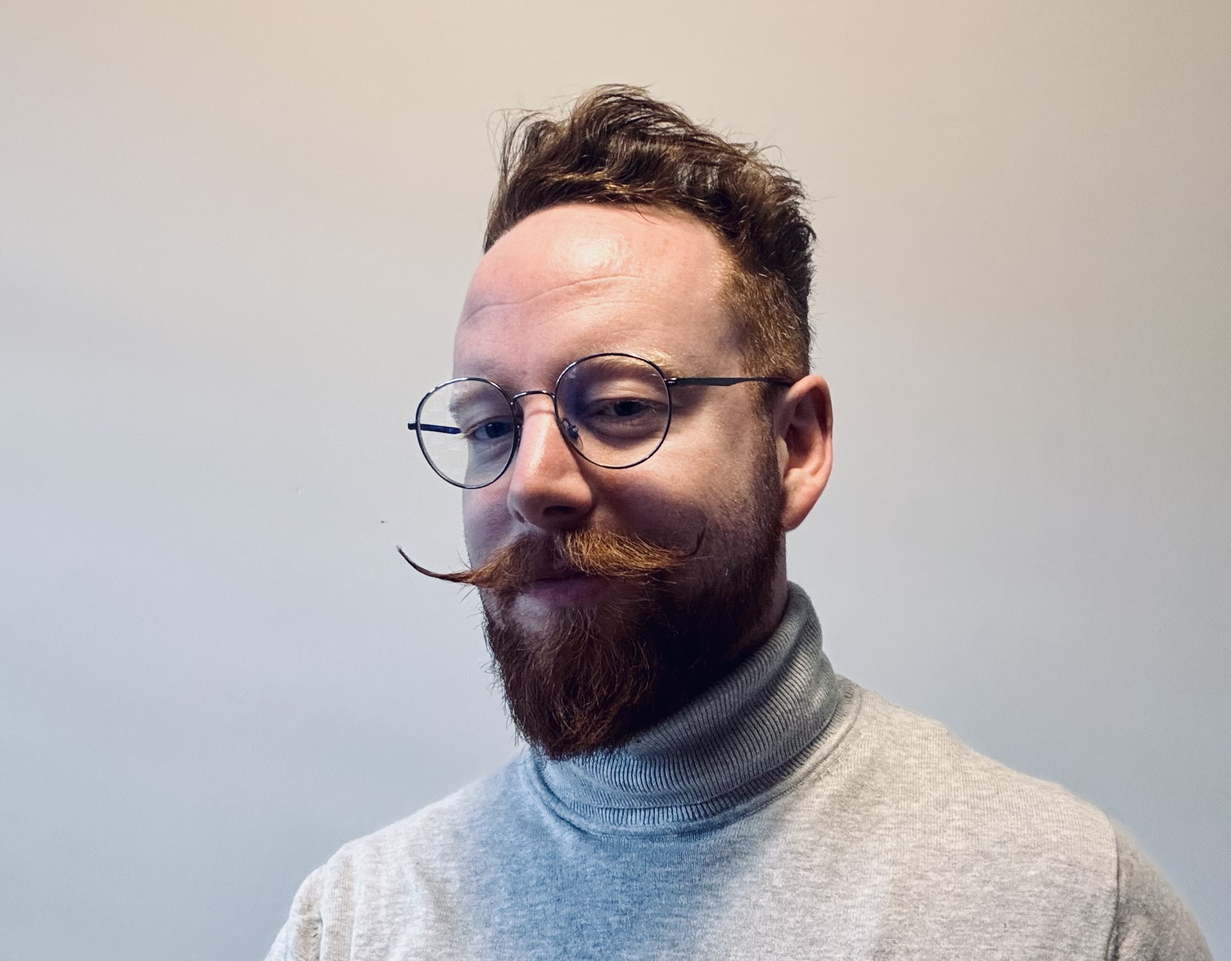
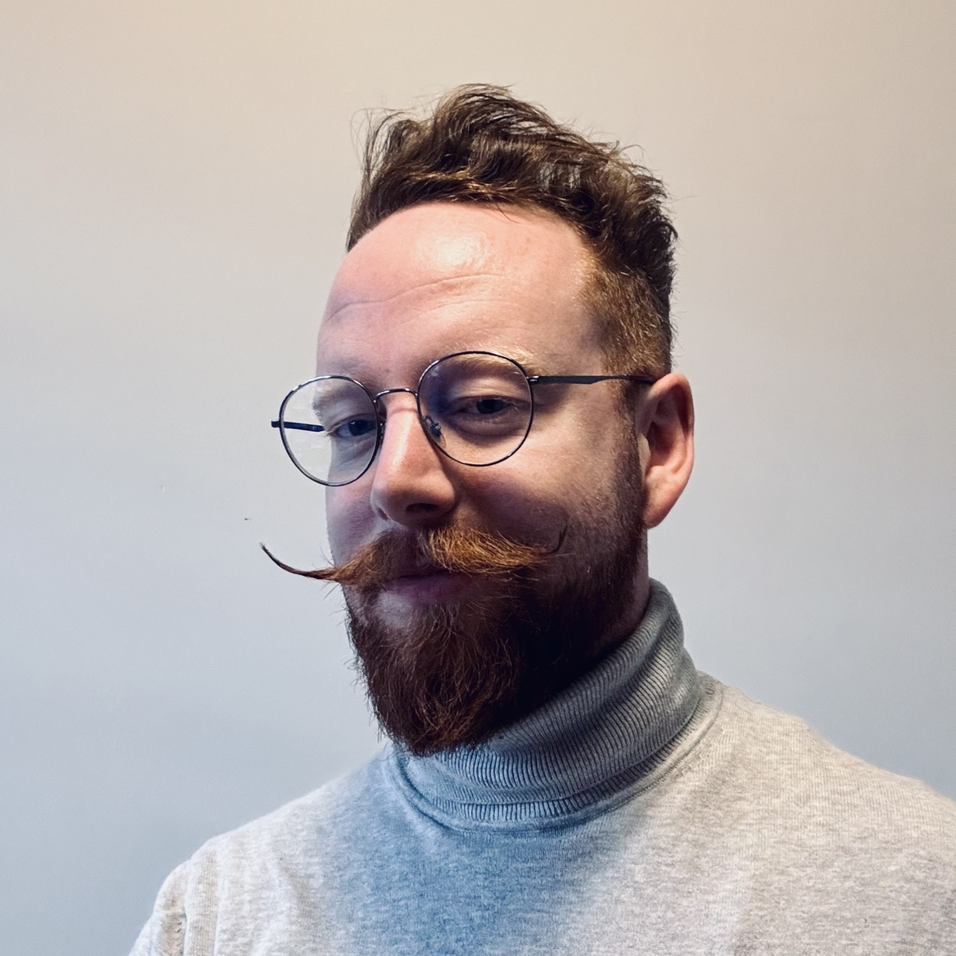
feat(seo): improve portrait thumbnail eligibility

Changed region(s): [[0.124, 0.093, 1.0, 1.0]]

diff --git a/src/utils/structured-data.ts b/src/utils/structured-data.ts
@@ -8,7 +8,7 @@ export type PageStructuredData =
   | { type: "BlogPosting"; entry: CollectionEntry<"blog"> }
   | { type: "WebPage"; organization?: { name: string; url: string } };
 
-export function createStructuredData(site: URL, url: URL, name: string, description: string, data: PageStructuredData) {
+export function createStructuredData(site: URL, url: URL, name: string, description: string, data: PageStructuredData, portraitUrl: URL) {
   const person = { "@id": new URL("#person", site).href };
   const website = { "@id": new URL("#website", site).href };
   const page = { "@id": `${url.href}#webpage` };
@@ -22,6 +22,7 @@ export function createStructuredData(site: URL, url: URL, name: string, descript
         ...person,
         "@type": "Person",
         name: SITE_NAME,
+        image: portraitUrl.href,
         url: site.href,
         jobTitle: SITE_TITLE,
         mainEntityOfPage: { "@id": new URL("#webpage", site).href },
@@ -44,7 +45,7 @@ export function createStructuredData(site: URL, url: URL, name: string, descript
         inLanguage: "en",
         isPartOf: website,
         about: person,
-        ...(data.type === "ProfilePage" && { mainEntity: person }),
+        ...(data.type === "ProfilePage" && { mainEntity: person, primaryImageOfPage: portraitUrl.href }),
         ...(data.type === "CollectionPage" && { mainEntity: list }),
         ...(data.type === "BlogPosting" && { mainEntity: article }),
         ...(data.type === "WebPage" &&
